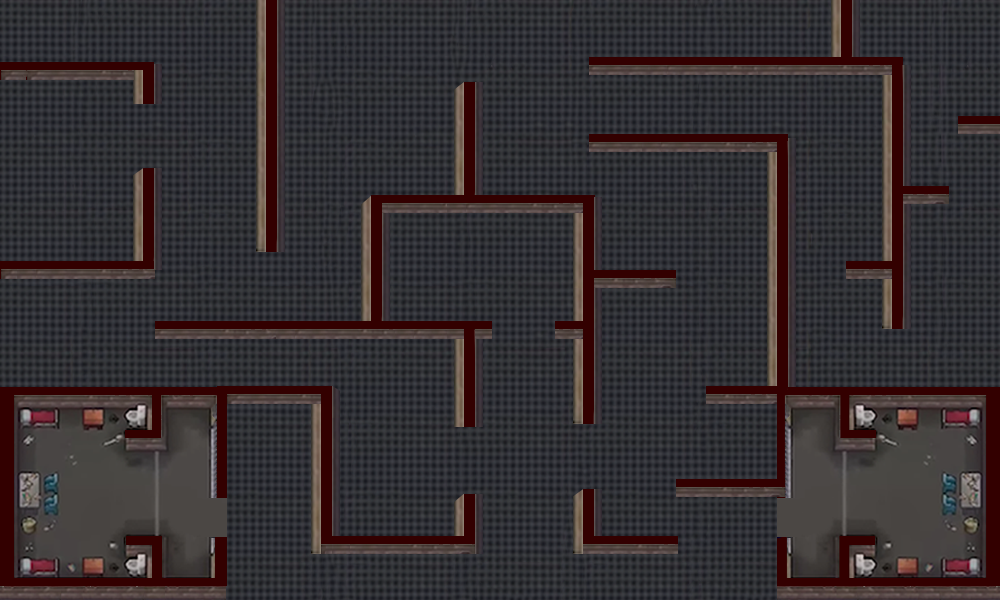
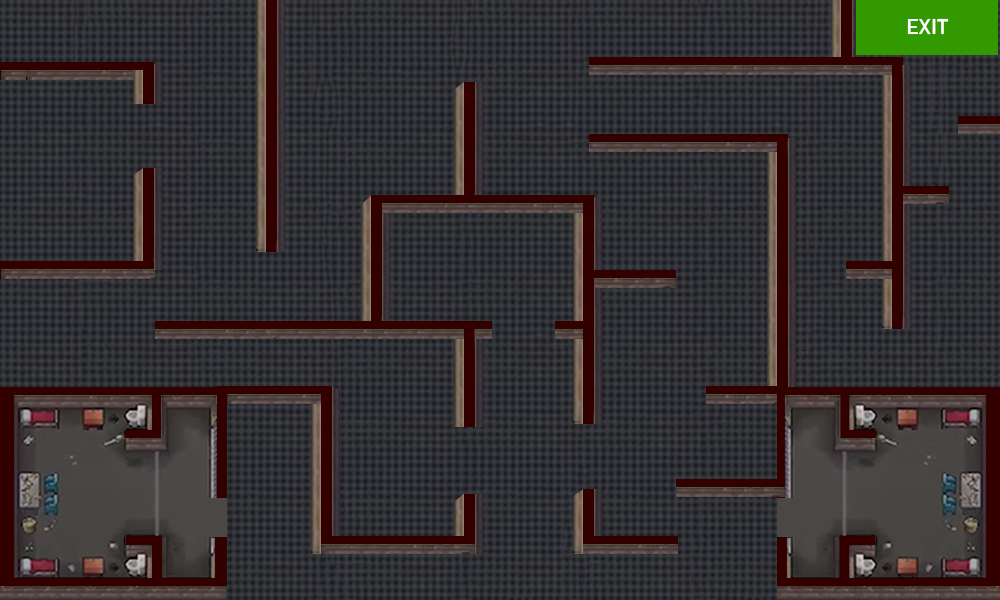
Modification background (map) et détection sortie, nouvelle images gardes, ajout d'un garde au niveau 2 et 3, bouton pour skiper l'intro

Changed region(s): [[0.837, 0.0, 1.0, 0.09]]

diff --git a/game/index.html b/game/index.html
@@ -16,8 +16,13 @@
 <main>
     <div class="container" id="canvas-game">
 
-        <div id="game">
+        <div id="game" class="background">
             <script src="js/game.js"></script>
+            <div id="buttonSkip" class="buttonSkip">
+                <a onclick="skipAnimation();" target="_blank">
+                    <h2>SKIP THE INTRO</h2>
+                </a>
+            </div>
         </div>
 
         <div id="lose">
@@ -40,15 +45,18 @@
         </div>
 
         <div id="saveScore" style='width: 1000px; height: 600px; border-style: solid;'>
-            <form name="scoreForm" method="get" onSubmit="return saveScoreToFile()">
-                <label for="name">Name:</label><br>
-                <input type="text" id="nname" name="nname"><br>
-                <label for="city">City:</label><br>
-                <input type="text" id="ncity" name="ncity" readonly><br>
-                <label for="noLocation" id="noLocation" style='display: none; color:red;'>Position inaccessible<br></label>
-                <input type="button" value="Get Location" onclick="getLocation()"/><br><br>
-                <input type="submit" value="Submit">
-            </form>
+            <img class="background" src="images/background_win.png"/>
+            <div class="form">
+                <form name="scoreForm" method="get" onSubmit="return saveScoreToFile()">
+                    <label for="name">Name:</label><br>
+                    <input type="text" id="nname" name="nname"><br>
+                    <label for="city">City:</label><br>
+                    <input type="text" id="ncity" name="ncity" readonly><br>
+                    <label for="noLocation" id="noLocation" style='display: none; color:red;'>Position inaccessible<br></label>
+                    <input type="button" value="Get Location" onclick="getLocation()"/><br><br>
+                    <input type="submit" value="Submit">
+                </form>
+            </div>
         </div>
 
         <div id="levelselection">

diff --git a/game/css/style.css b/game/css/style.css
@@ -71,6 +71,37 @@ LEVEL SELECTION
 
 
 /********************************************
+GAME / SKIP INTRODUCTION
+********************************************/
+
+.buttonSkip {
+    position: absolute;
+    top: 520px;
+    left: 750px;
+    border-color: white;
+    border-style: solid;
+    color: white;
+    background-color: black;
+}
+
+
+.buttonSkip a h2 {
+    margin-left: 20px;
+    margin-right: 20px;
+}
+
+
+.buttonSkip a h2:hover{
+    background-color: rgba(255, 255, 255, 0.5);
+}
+
+.buttonSkip a h2:active{
+    background-color: rgba(255, 255, 255, 0.7);
+}
+
+
+
+/********************************************
 LOSE AND WIN SCREENS
 ********************************************/
 
@@ -97,3 +128,7 @@ LOSE AND WIN SCREENS
 SAVE SCORE
 ********************************************/
 
+.form {
+    position: absolute;
+    bottom: 100px;
+}
